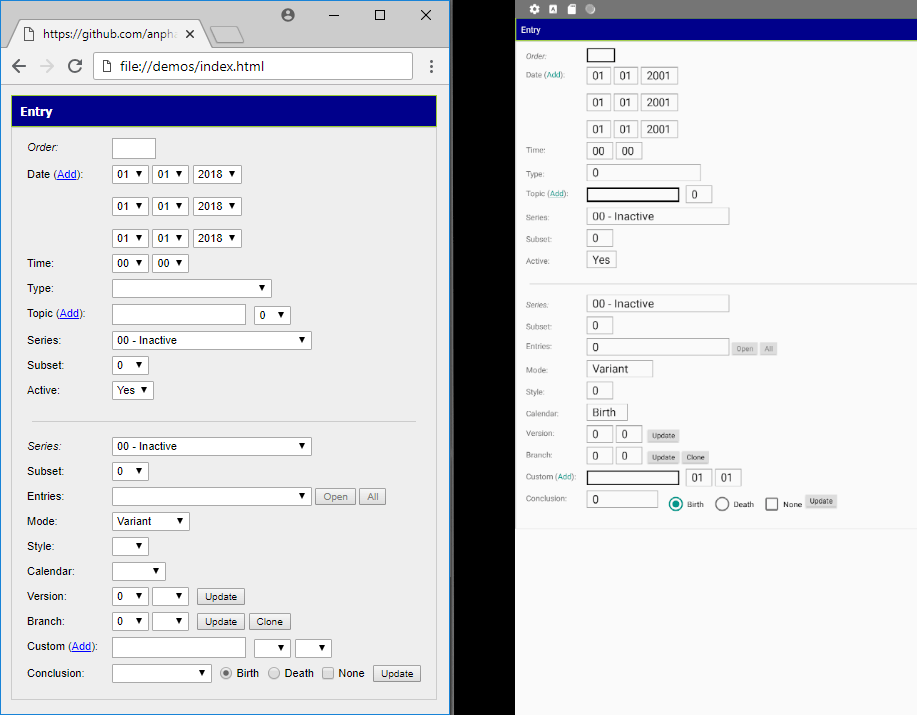
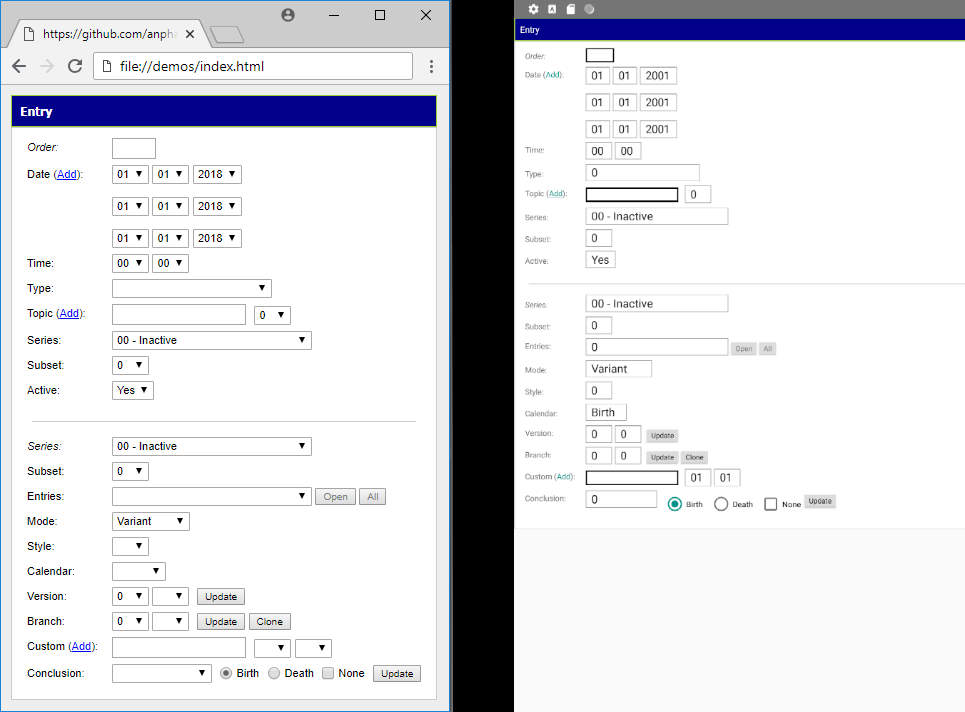
Excluded backgroundColor or textColor ignored if explicitly set in CSS.

diff --git a/src/base/resource.ts b/src/base/resource.ts
@@ -231,7 +231,7 @@ export default abstract class Resource<T extends Node> {
                         result[i] = result[i](node.css(i), node, i);
                     }
                     if (result.backgroundColor.length > 0) {
-                        if (SETTINGS.excludeBackgroundColor.includes(result.backgroundColor[0]) || (node.styleMap.backgroundColor == null && sameAsParent(element, 'backgroundColor'))) {
+                        if ((SETTINGS.excludeBackgroundColor.includes(result.backgroundColor[0]) && result.backgroundColor[1] !== node.styleMap.backgroundColor) || (node.styleMap.backgroundColor == null && sameAsParent(element, 'backgroundColor'))) {
                             result.backgroundColor = [];
                         }
                         else {
@@ -260,7 +260,7 @@ export default abstract class Resource<T extends Node> {
                     else {
                         let color = parseRGBA(node.css('color'));
                         if (color.length > 0) {
-                            if (SETTINGS.excludeTextColor.includes(color[0])) {
+                            if (SETTINGS.excludeTextColor.includes(color[0]) && color[1] !== node.styleMap.color) {
                                 color = [];
                             }
                             else {
@@ -269,7 +269,7 @@ export default abstract class Resource<T extends Node> {
                         }
                         let backgroundColor = parseRGBA(node.css('backgroundColor'));
                         if (backgroundColor.length > 0) {
-                            if (SETTINGS.excludeBackgroundColor.includes(backgroundColor[0]) || (node.styleMap.backgroundColor == null && sameAsParent(element, 'backgroundColor'))) {
+                            if ((SETTINGS.excludeBackgroundColor.includes(backgroundColor[0]) && backgroundColor[1] !== node.styleMap.backgroundColor) || (node.styleMap.backgroundColor == null && sameAsParent(element, 'backgroundColor'))) {
                                 backgroundColor = [];
                             }
                             else {

diff --git a/demos/drawer.html b/demos/drawer.html
@@ -69,7 +69,6 @@
     <script src="../dist/androme.min.js"></script>
     <script>
         document.addEventListener('DOMContentLoaded', function() {
-            androme.settings.excludeBackgroundColor = [];
             androme.parseDocument('androme_root');
             androme.close();
 

diff --git a/demos-dev/drawer.html b/demos-dev/drawer.html
@@ -41,7 +41,6 @@
     <script>
         System.import('/build/main.js').then(function(result) {
             androme = result;
-            androme.settings.excludeBackgroundColor = [];
             androme.parseDocument('androme_root');
             androme.close();
 

diff --git a/demos-dev/index.html b/demos-dev/index.html
@@ -26,6 +26,7 @@
         }
         form {
             font-size: 11px;
+            background-color: #fff;
             padding: 5px 10px;
             border: 1px solid #ccc;
             overflow: hidden;

diff --git a/demos/index.html b/demos/index.html
@@ -56,6 +56,7 @@
         }
         form {
             font-size: 11px;
+            background-color: #fff;
             padding: 5px 10px;
             border: 1px solid #ccc;
             overflow: hidden;

diff --git a/README.md b/README.md
@@ -146,7 +146,7 @@ Most of the Android support library extensions can be configured using the same 
     androme.configureExtension('androme.widget.drawer', { android: { layout_width: 'wrap_content', fitsSystemWindows: 'true' } });
 </script>
 ```
-<img src="demos/android/drawer.png" alt="extension: drawer - actionbar" />
+<img src="demos/android/drawer.navigationview.png" alt="extension: drawer - actionbar" />
 
 <img src="demos/android/menu.png" alt="extension: menu" />
 
